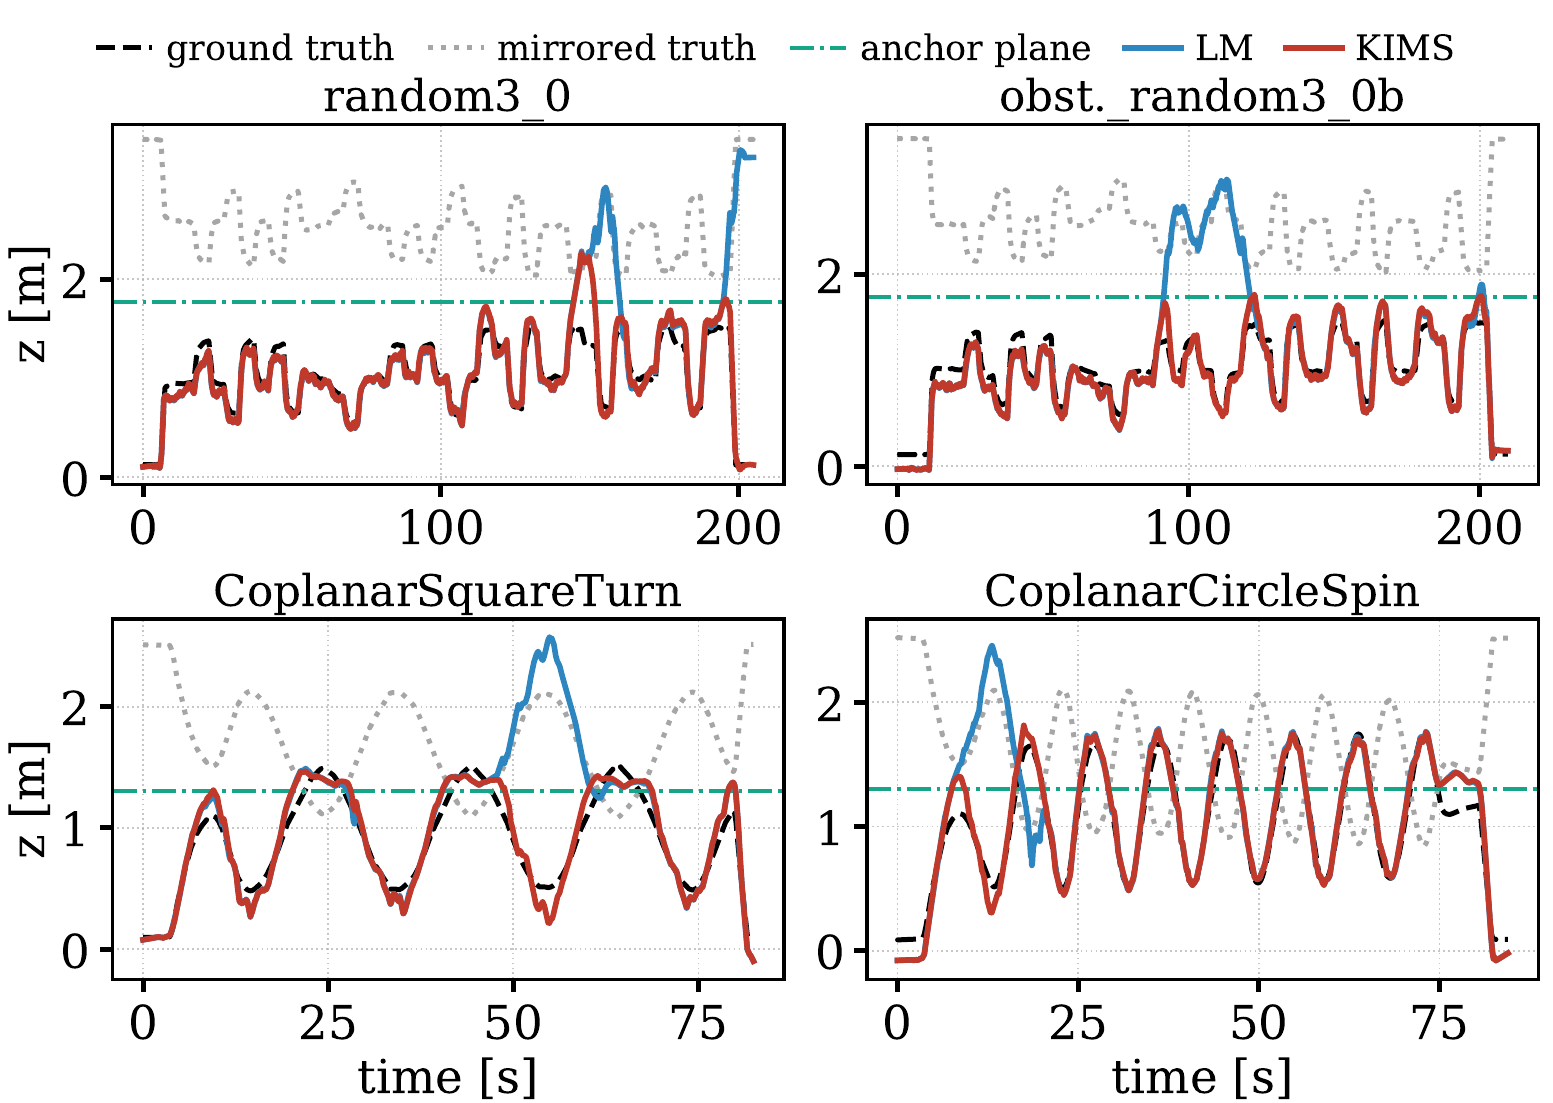
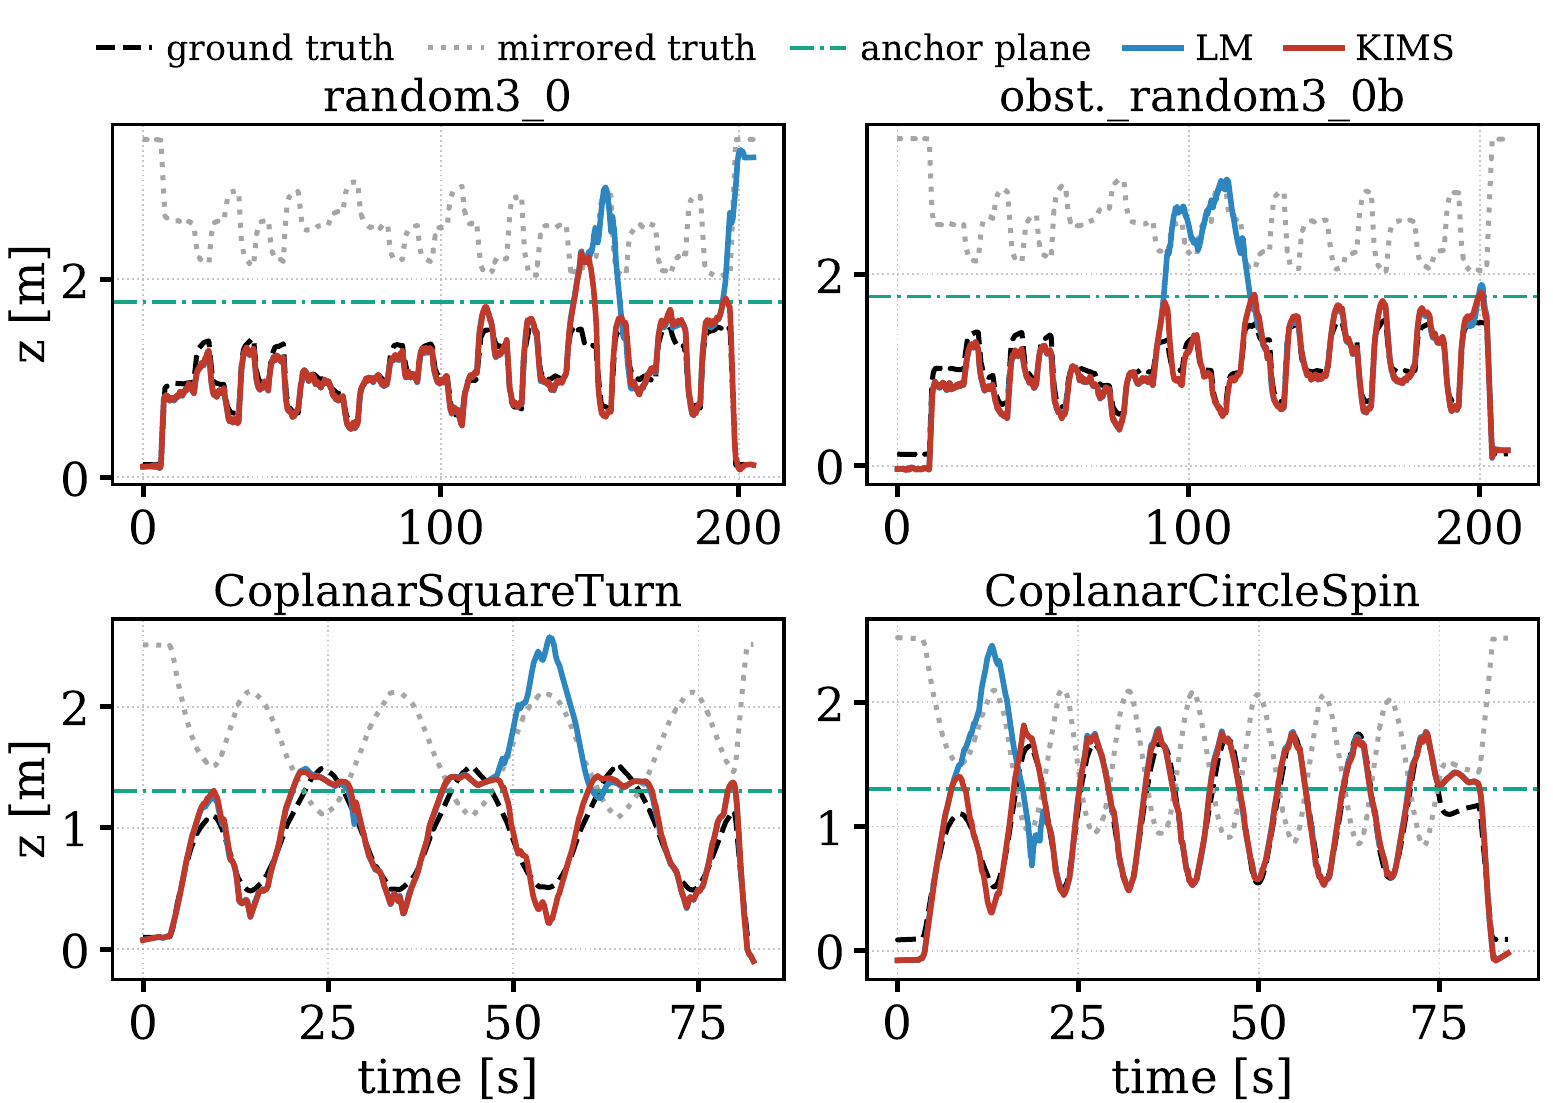
docs: update project page figures and numbers

Changed region(s): [[0.6491, 0.3083, 0.68, 0.3391]]

diff --git a/docs/index.html b/docs/index.html
@@ -236,7 +236,7 @@
             2 to 8 % of the time on three flights whose RMSE stays below 0.24 m.</li>
       </ul></div>
     <div class="card"><h3>NTU VIRAL &mdash; 9 flights, three coplanar anchors at 1.5 m, four tags</h3>
-      <div class="big">0.559 m</div>
+      <div class="big">0.575 m</div>
       <div class="vs">median &middot; SFUISE 2.537 m, diverging on two flights</div>
       <ul>
         <li><strong>Horizontal RMSE 0.06 to 0.12 m</strong> on eight of nine sequences. The three anchors lie in one
@@ -281,7 +281,7 @@
   <div class="tscroll"><table>
     <tr><th>Median 3D RMSE [m]</th><th>KIMS</th><th>Matched LM</th><th>SFUISE</th><th>Dataset filter</th></tr>
     <tr><td>MILUV (13)</td><td class="best">0.135</td><td>0.197</td><td>0.704 <span class="small">(3 div.)</span></td><td>0.265 <span class="small">(EKF + height)</span></td></tr>
-    <tr><td>NTU VIRAL (9)</td><td class="best">0.559</td><td>0.633</td><td>2.537 <span class="small">(2 div.)</span></td><td>&mdash;</td></tr>
+    <tr><td>NTU VIRAL (9)</td><td class="best">0.575</td><td>0.638</td><td>2.537 <span class="small">(2 div.)</span></td><td>&mdash;</td></tr>
     <tr><td>UTIL (79)</td><td>0.187</td><td>0.191</td><td class="best">0.184 <span class="small">(5 div.)</span></td><td>0.217 <span class="small">(ESKF)</span></td></tr>
     <tr><td>IULUI (3)</td><td class="best">0.120</td><td>0.418</td><td>0.235</td><td>&mdash;</td></tr>
   </table></div>
@@ -301,8 +301,8 @@
      ten times that noise.</p>
   <div class="tscroll"><table class="small">
     <tr><th>Median 3D RMSE [m] (diverged/failed)</th><th>MILUV (13)</th><th>NTU VIRAL (9)</th><th>UTIL (8)</th><th>IULUI (3)</th></tr>
-    <tr><td>KIMS</td><td class="best">0.135 (0/0)</td><td>0.559 (0/2)</td><td>0.130 (0/0)</td><td class="best">0.120 (0/0)</td></tr>
-    <tr><td>LM, same objective</td><td>0.197 (0/0)</td><td>0.633 (0/2)</td><td>0.130 (0/0)</td><td>0.418 (0/0)</td></tr>
+    <tr><td>KIMS</td><td class="best">0.135 (0/0)</td><td>0.575 (0/2)</td><td>0.129 (0/0)</td><td class="best">0.120 (0/0)</td></tr>
+    <tr><td>LM, same objective</td><td>0.197 (0/0)</td><td>0.638 (0/2)</td><td>0.130 (0/0)</td><td>0.418 (0/0)</td></tr>
     <tr><td>SFUISE, 0.3 m gate</td><td>0.704 (3/4)</td><td>2.537 (2/6)</td><td>0.125 (0/0)</td><td>0.235 (0/0)</td></tr>
     <tr><td>SFUISE + Tukey</td><td>3.483 (0/10)</td><td>7.607 (0/9)</td><td class="best">0.122 (0/0)</td><td>0.242 (0/0)</td></tr>
     <tr><td>SW-PGO + Tukey</td><td>0.186 (2/2)</td><td class="best">0.494 (0/3)</td><td>0.124 (0/0)</td><td>0.404 (0/0)</td></tr>
@@ -325,12 +325,44 @@
      diverges, nor does LM over the same variable, whereas the particle filter over the states, whose sampled
      dimension grows with the window, still diverges on 10 of the 33 flights with ten times the process noise.</p>
 
+  <div class="figcard"><img src="assets/fig_trajectories.png" alt="3D trajectories of KIMS, SFUISE and SW-PGO on three sequences per dataset"></div>
+  <p class="cap">Trajectories of KIMS, SFUISE and sliding-window pose-graph optimization (SW-PGO) on three sequences of
+     MILUV, NTU VIRAL and IULUI, one row per dataset and one boxed group per sequence, each estimate over the ground truth
+     in gray with its 3D RMSE [m] above the panel. Estimates more than 0.4 m outside the box of the ground truth are not
+     drawn, so a diverged run leaves only the ground truth.</p>
+
   <div class="figcard"><img src="assets/fig_traj_axes.png" alt="Per-axis trajectories on one sequence per dataset"></div>
   <p class="cap">One sequence per dataset, per axis: KIMS, SFUISE and our runs of the dataset filter against the ground
      truth (MILUV <code>random3_0</code>, NTU VIRAL <code>eee_01</code>, UTIL <code>const4-trial1-tdoa2-traj1</code>,
      IULUI <code>CoplanarCircleSpin</code>; column titles give the 3D RMSE).</p>
 
   
+
+  <h3 style="font-size:1.0rem;margin:26px 0 6px">Sensitivity to the settings</h3>
+  <p>One setting changed at a time from the published configuration, everything else as published, single seed 1234, <i>N</i> = 8192 rather than the published 2048, which the Jetson sweep below shows gives the same RMSE, each window scored with its own lag as in the main table. Median 3D RMSE [m] over the sequences of each dataset, the published setting in bold. These are single-seed values, so the published NTU VIRAL setting reads 0.435 m here against the ten-seed mean of 0.575 m above, the difference being the branch that <code>sbs_02</code> takes on this seed.</p>
+  <div class="tscroll"><table class="small">
+    <tr><th>Setting</th><th>Value</th><th>MILUV (13)</th><th>NTU VIRAL (9)</th><th>IULUI (3)</th></tr>
+    <tr><td>Window <i>T<sub>w</sub></i> [s]</td><td>1</td><td>0.278</td><td>0.444</td><td>0.136</td></tr>
+    <tr><td></td><td>1.5</td><td>0.238</td><td>0.439</td><td>0.128</td></tr>
+    <tr><td></td><td>2</td><td>0.221</td><td>0.615</td><td>0.120</td></tr>
+    <tr><td></td><td>3</td><td>0.139</td><td>0.617</td><td>0.112</td></tr>
+    <tr><td></td><td>4</td><td>0.135</td><td>0.628</td><td>0.401</td></tr>
+    <tr><td></td><td><b>published, 3 / 2 / 2</b></td><td><b>0.135</b></td><td><b>0.435</b></td><td><b>0.120</b></td></tr>
+    <tr><td>Cosine modes (dim &theta;)</td><td>1 (15)</td><td>0.134</td><td>0.435</td><td>0.121</td></tr>
+    <tr><td></td><td>2 (21)</td><td>0.135</td><td>0.435</td><td>0.120</td></tr>
+    <tr><td></td><td><b>4 (33), published</b></td><td><b>0.135</b></td><td><b>0.435</b></td><td><b>0.120</b></td></tr>
+    <tr><td></td><td>8 (57)</td><td>0.135</td><td>0.435</td><td>0.120</td></tr>
+    <tr><td>Mixture weight &alpha;</td><td>0.7</td><td>0.135</td><td>0.616</td><td>0.120</td></tr>
+    <tr><td></td><td><b>0.9, published</b></td><td><b>0.135</b></td><td><b>0.435</b></td><td><b>0.120</b></td></tr>
+    <tr><td></td><td>0.99</td><td>0.166</td><td>0.617</td><td>0.120</td></tr>
+    <tr><td><i>N</i><sub>min</sub>/<i>N</i></td><td>0.012</td><td>0.135</td><td>0.435</td><td>0.120</td></tr>
+    <tr><td></td><td><b>0.024, published</b></td><td><b>0.135</b></td><td><b>0.435</b></td><td><b>0.120</b></td></tr>
+    <tr><td></td><td>0.05</td><td>0.135</td><td>0.435</td><td>0.120</td></tr>
+    <tr><td><i>N</i><sub>done</sub>/<i>N</i></td><td>0.025</td><td>0.135</td><td>0.435</td><td>0.120</td></tr>
+    <tr><td></td><td><b>0.05, published</b></td><td><b>0.135</b></td><td><b>0.435</b></td><td><b>0.120</b></td></tr>
+    <tr><td></td><td>0.1</td><td>0.135</td><td>0.435</td><td>0.120</td></tr>
+  </table></div>
+  <p>The window length is the only setting that matters. Below its lower bound the MILUV median rises from 0.139 m at 3 s to 0.221 m at 2 s and 0.278 m at 1 s, whereas 4 s gives 0.135 m, and on IULUI 4 s raises the median to 0.40 m because the two coplanar flights settle on the mirror branch, with the horizontal error unchanged. On NTU VIRAL every change of more than 1 cm comes from <code>sbs_02</code>, <code>nya_02</code> and <code>nya_03</code> switching branch, as they do between seeds. The number of cosine modes changes the medians by at most 1 mm, one mode is within 4 mm of four on every MILUV flight, and eight modes cost 27 times the solve time. The mixture weight matters only at 0.99, where the proposal almost never returns to the prior and one MILUV flight loses 0.2 m. The two tempering thresholds change no median by more than 1 mm.</p>
 
   <h3 style="font-size:1.0rem;margin:26px 0 6px">Why sampling: moments instead of modes</h3>
   <p>The matched LM solver keeps everything else of KIMS, the window variable, prior, cost, GPU rollouts, proposal
@@ -426,37 +458,37 @@
   <div class="tscroll"><table class="small">
     <tr><th>Sequence</th><th>KIMS</th><th>SFUISE 10 s</th><th>SFUISE at the KIMS window</th><th>+ 1.5 m gate</th></tr>
     <tr><td>MILUV rcHighPace_1</td><td>0.205</td><td>div.</td><td>div.</td><td></td></tr>
-    <tr><td>MILUV random3_1</td><td>0.231</td><td>0.488</td><td>div.</td><td></td></tr>
-    <tr><td>MILUV random3_0</td><td>0.165</td><td>0.704</td><td>div.</td><td></td></tr>
+    <tr><td>MILUV random3_1</td><td>0.232</td><td>0.488</td><td>div.</td><td></td></tr>
+    <tr><td>MILUV random3_0</td><td>0.166</td><td>0.704</td><td>div.</td><td></td></tr>
     <tr><td>MILUV circular3D_0</td><td>0.093</td><td>0.123</td><td>div.</td><td>0.868</td></tr>
     <tr><td>MILUV rcLowPace_0_v2</td><td>0.086</td><td>0.114</td><td>div.</td><td>1.462</td></tr>
-    <tr><td>MILUV rcLowPace_0</td><td>0.202</td><td>0.955</td><td>div.</td><td></td></tr>
-    <tr><td>MILUV circular2D_0</td><td>0.134</td><td>0.192</td><td>div.</td><td></td></tr>
+    <tr><td>MILUV rcLowPace_0</td><td>0.201</td><td>0.955</td><td>div.</td><td></td></tr>
+    <tr><td>MILUV circular2D_0</td><td>0.133</td><td>0.192</td><td>div.</td><td></td></tr>
     <tr><td>MILUV rcHighPace_0</td><td>0.100</td><td>div.</td><td>div.</td><td></td></tr>
-    <tr><td>MILUV obstacles_random3_0b</td><td>0.130</td><td>0.639</td><td>div.</td><td></td></tr>
+    <tr><td>MILUV obstacles_random3_0b</td><td>0.131</td><td>0.639</td><td>div.</td><td></td></tr>
     <tr><td>MILUV random3_2</td><td>0.135</td><td>div.</td><td>div.</td><td></td></tr>
-    <tr><td>MILUV rcHighPace_2</td><td>0.244</td><td>0.763</td><td>div.</td><td></td></tr>
+    <tr><td>MILUV rcHighPace_2</td><td>0.245</td><td>0.763</td><td>div.</td><td></td></tr>
     <tr><td>MILUV noAT_random3_2b</td><td>0.130</td><td>0.368</td><td>div.</td><td>1.101</td></tr>
     <tr><td>MILUV noAT_rcHighPace_2b</td><td>0.191</td><td>1.144</td><td>div.</td><td></td></tr>
-    <tr><td>NTU VIRAL eee_01</td><td>0.204</td><td>0.126</td><td>div.</td><td>div.</td></tr>
-    <tr><td>NTU VIRAL eee_02</td><td>0.367</td><td>2.537</td><td>div.</td><td></td></tr>
+    <tr><td>NTU VIRAL eee_01</td><td>0.203</td><td>0.126</td><td>div.</td><td>div.</td></tr>
+    <tr><td>NTU VIRAL eee_02</td><td>0.370</td><td>2.537</td><td>div.</td><td></td></tr>
     <tr><td>NTU VIRAL eee_03</td><td>1.845</td><td>1.144</td><td>div.</td><td></td></tr>
-    <tr><td>NTU VIRAL nya_01</td><td>0.791</td><td>div.</td><td>div.</td><td></td></tr>
-    <tr><td>NTU VIRAL nya_02</td><td>3.084</td><td>0.395</td><td>div.</td><td>div.</td></tr>
-    <tr><td>NTU VIRAL nya_03</td><td>0.903</td><td>div.</td><td>div.</td><td></td></tr>
-    <tr><td>NTU VIRAL sbs_01</td><td>0.190</td><td>0.207</td><td>div.</td><td>div.</td></tr>
-    <tr><td>NTU VIRAL sbs_02</td><td>0.409</td><td>3.109</td><td>div.</td><td></td></tr>
+    <tr><td>NTU VIRAL nya_01</td><td>0.793</td><td>div.</td><td>div.</td><td></td></tr>
+    <tr><td>NTU VIRAL nya_02</td><td>3.085</td><td>0.395</td><td>div.</td><td>div.</td></tr>
+    <tr><td>NTU VIRAL nya_03</td><td>0.917</td><td>div.</td><td>div.</td><td></td></tr>
+    <tr><td>NTU VIRAL sbs_01</td><td>0.191</td><td>0.207</td><td>div.</td><td>div.</td></tr>
+    <tr><td>NTU VIRAL sbs_02</td><td>0.411</td><td>3.109</td><td>div.</td><td></td></tr>
     <tr><td>NTU VIRAL sbs_03</td><td>0.435</td><td>3.146</td><td>div.</td><td></td></tr>
     <tr><td>UTIL const1-trial1-tdoa2</td><td>0.096</td><td>0.095</td><td>div.</td><td></td></tr>
     <tr><td>UTIL const1-trial1-tdoa3</td><td>0.100</td><td>0.094</td><td>div.</td><td></td></tr>
     <tr><td>UTIL const2-trial1-tdoa2</td><td>0.095</td><td>0.094</td><td>div.</td><td></td></tr>
     <tr><td>UTIL const2-trial1-tdoa3</td><td>0.095</td><td>0.096</td><td>div.</td><td></td></tr>
     <tr><td>UTIL const3-trial1-tdoa2</td><td>0.230</td><td>0.330</td><td>div.</td><td></td></tr>
-    <tr><td>UTIL const3-trial1-tdoa3</td><td>0.199</td><td>0.207</td><td>div.</td><td></td></tr>
+    <tr><td>UTIL const3-trial1-tdoa3</td><td>0.198</td><td>0.207</td><td>div.</td><td></td></tr>
     <tr><td>UTIL const4-trial1-tdoa2-traj1</td><td>0.198</td><td>0.202</td><td>div.</td><td></td></tr>
     <tr><td>UTIL const4-trial1-tdoa3-traj1</td><td>0.159</td><td>0.155</td><td>div.</td><td></td></tr>
     <tr><td>IULUI CoplanarSquareTurn</td><td>0.120</td><td>0.106</td><td>div.</td><td></td></tr>
-    <tr><td>IULUI CoplanarCircleSpin</td><td>0.118</td><td>0.235</td><td>div.</td><td></td></tr>
+    <tr><td>IULUI CoplanarCircleSpin</td><td>0.117</td><td>0.235</td><td>div.</td><td></td></tr>
     <tr><td>IULUI NoncoplanarCircleSpin</td><td>0.128</td><td>0.300</td><td>div.</td><td></td></tr>
   </table></div>
   </details>
